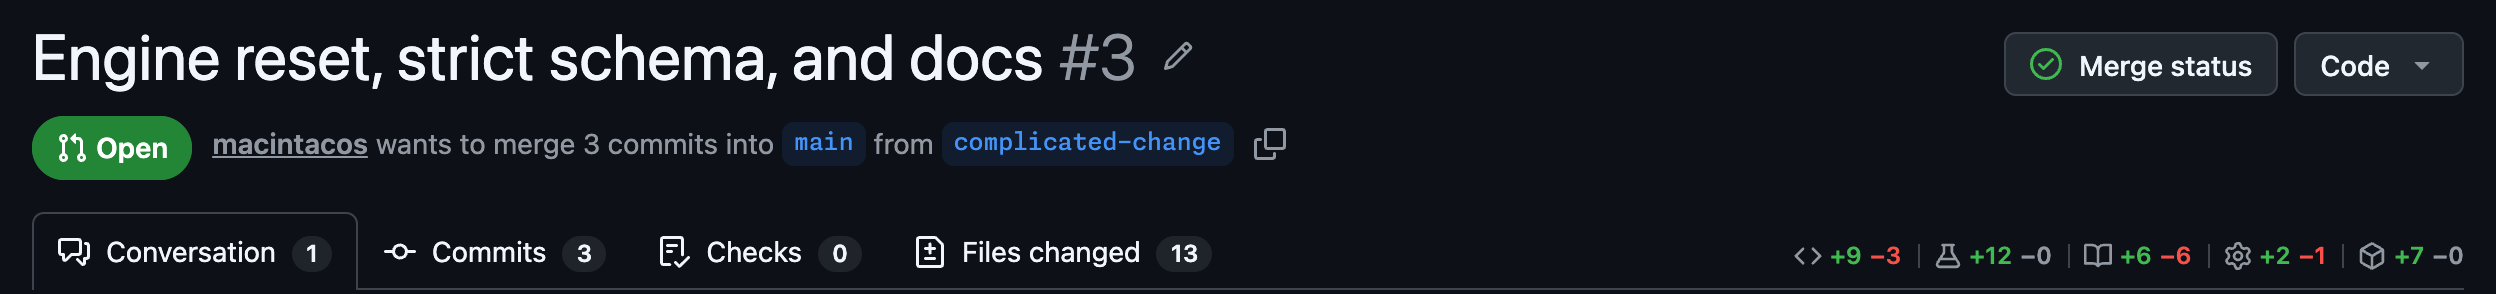
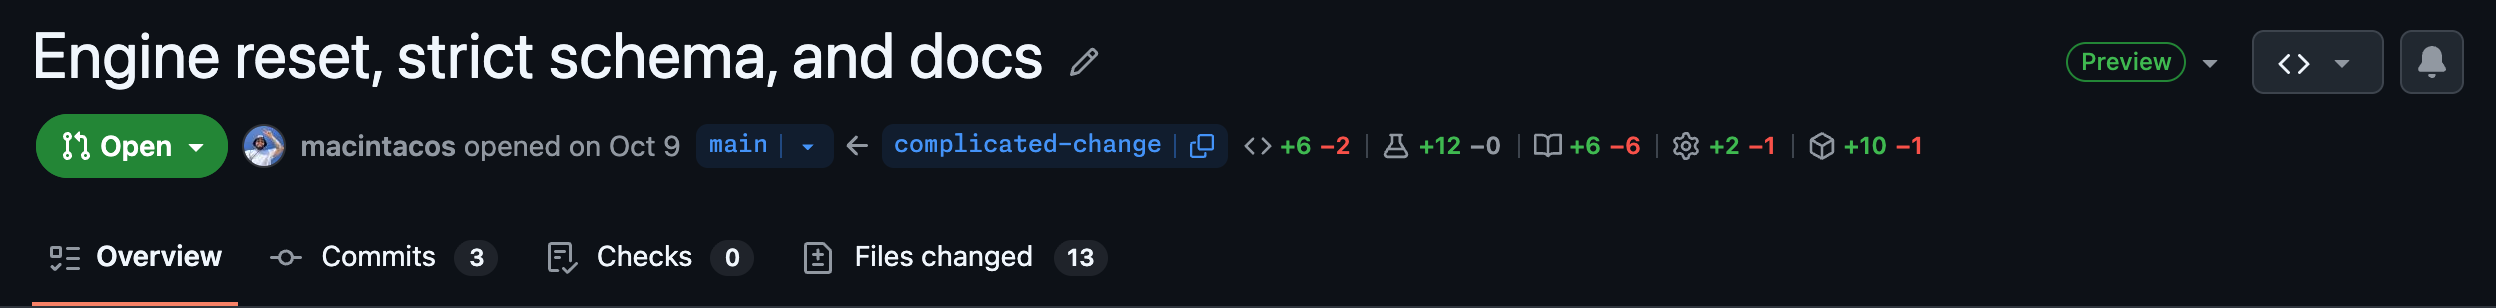
docs(readme): recapture screenshots with schema.rs in Generated
- `src/generated/schema.rs` in macintacos/gh-prism-sandbox#3 now lands
  in Generated, so the hero, sections, viewed, lines-changed, and
  conversation pairs are recaptured, light and dark
- Each picture's width, alt, and summary match the new captures

diff --git a/README.md b/README.md
@@ -17,7 +17,7 @@ Install it:
 
 <picture>
   <source media="(prefers-color-scheme: dark)" srcset="docs/images/hero-dark.png">
-  <img src="docs/images/hero-light.png" width="1408" alt="A pull request's Files changed tab with gh-prism. The tab row shows five lines-changed counts, one per section, and the sidebar on the right lists files under Implementation, Tests, and Docs & Comments, with render.rs marked Partial.">
+  <img src="docs/images/hero-light.png" width="1408" alt="A pull request's Files changed tab with gh-prism. Beside the branch names are five lines-changed counts, one per section, and the sidebar on the right lists files under Implementation, Tests, and Docs & Comments, with render.rs marked Partial.">
 </picture>
 
 ## What it does
@@ -46,7 +46,7 @@ Implementation, Tests, Docs & Comments, Config, and Generated / lockfiles.
 
 <picture>
   <source media="(prefers-color-scheme: dark)" srcset="docs/images/sections-dark.png">
-  <img src="docs/images/sections-light.png" width="401" alt="The gh-prism sidebar with Implementation (4 files, render.rs marked Partial), Tests (2), Docs & Comments (4, ending in an Implementation comments row), Config (2), and Generated / lockfiles (1), each with its lines added and removed.">
+  <img src="docs/images/sections-light.png" width="360" alt="The gh-prism sidebar with Implementation (3 files, render.rs marked Partial), Tests (2), Docs & Comments (4, ending in an Implementation comments row), Config (2), and Generated / lockfiles (2), each with its lines added and removed.">
 </picture>
 
 </details>
@@ -93,7 +93,7 @@ them (`N/M`).
 
 <picture>
   <source media="(prefers-color-scheme: dark)" srcset="docs/images/viewed-dark.png">
-  <img src="docs/images/viewed-light.png" width="401" alt="The gh-prism sidebar with schema.rs, engine.rs, and helpers.rs ticked and dimmed. The headings read Implementation 3/4, Tests 0/2, Docs & Comments 0/4, Config 0/2, and Generated / lockfiles 0/1.">
+  <img src="docs/images/viewed-light.png" width="360" alt="The gh-prism sidebar with engine.rs and helpers.rs ticked and dimmed. The headings read Implementation 2/3, Tests 0/2, Docs & Comments 0/4, Config 0/2, and Generated / lockfiles 1/2, its collapsed section holding the ticked schema.rs.">
 </picture>
 
 </details>
@@ -107,11 +107,11 @@ The lines-changed count in the header splits into one count per section.
 - Click the counts to switch to GitHub's total and back. gh-prism remembers your choice.
 
 <details>
-<summary>Screenshot: a pull request's tab row with one count per section</summary>
+<summary>Screenshot: a pull request's header with one count per section</summary>
 
 <picture>
   <source media="(prefers-color-scheme: dark)" srcset="docs/images/lines-changed-dark.png">
-  <img src="docs/images/lines-changed-light.png" width="1248" alt="A pull request's header on the Conversation tab. At the right end of the tab row are five counts, each with its section's icon: +9 −3, +12 −0, +6 −6, +2 −1, and +7 −0.">
+  <img src="docs/images/lines-changed-light.png" width="1248" alt="A pull request's header on the Overview tab. Beside the branch names are five counts, each with its section's icon: +6 −2, +12 −0, +6 −6, +2 −1, and +10 −1.">
 </picture>
 
 </details>
@@ -128,11 +128,11 @@ the left, so you can read and reply to it without leaving the diffs.
   and projects.
 
 <details>
-<summary>Screenshot: the Conversation tab pinned beside a pull request's diffs</summary>
+<summary>Screenshot: the Overview tab pinned beside a pull request's diffs</summary>
 
 <picture>
   <source media="(prefers-color-scheme: dark)" srcset="docs/images/conversation-dark.png">
-  <img src="docs/images/conversation-light.png" width="950" alt="Files changed with the Conversation panel pinned on the left. Its header holds the reviewers jump, the pressed pin, and close, over the pull request's description and its three commits. Beside it, the toolbar starts with the Conversation button and its Shift+backslash keycap.">
+  <img src="docs/images/conversation-light.png" width="950" alt="Files changed with the Overview panel pinned on the left. Its header holds the reviewers jump, the pressed pin, and close, over the merge box and the pull request's description. Beside it, the toolbar starts with the Conversation button and its Shift+backslash keycap.">
 </picture>
 
 </details>
